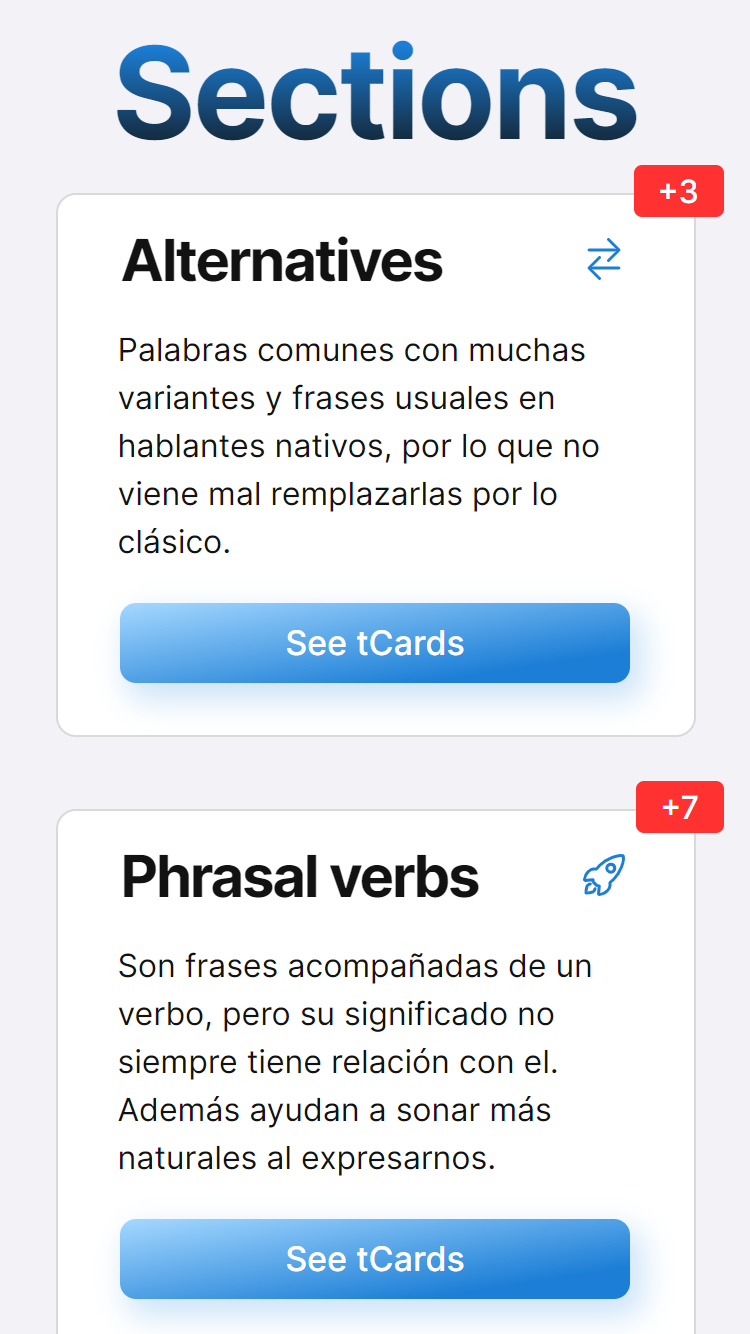
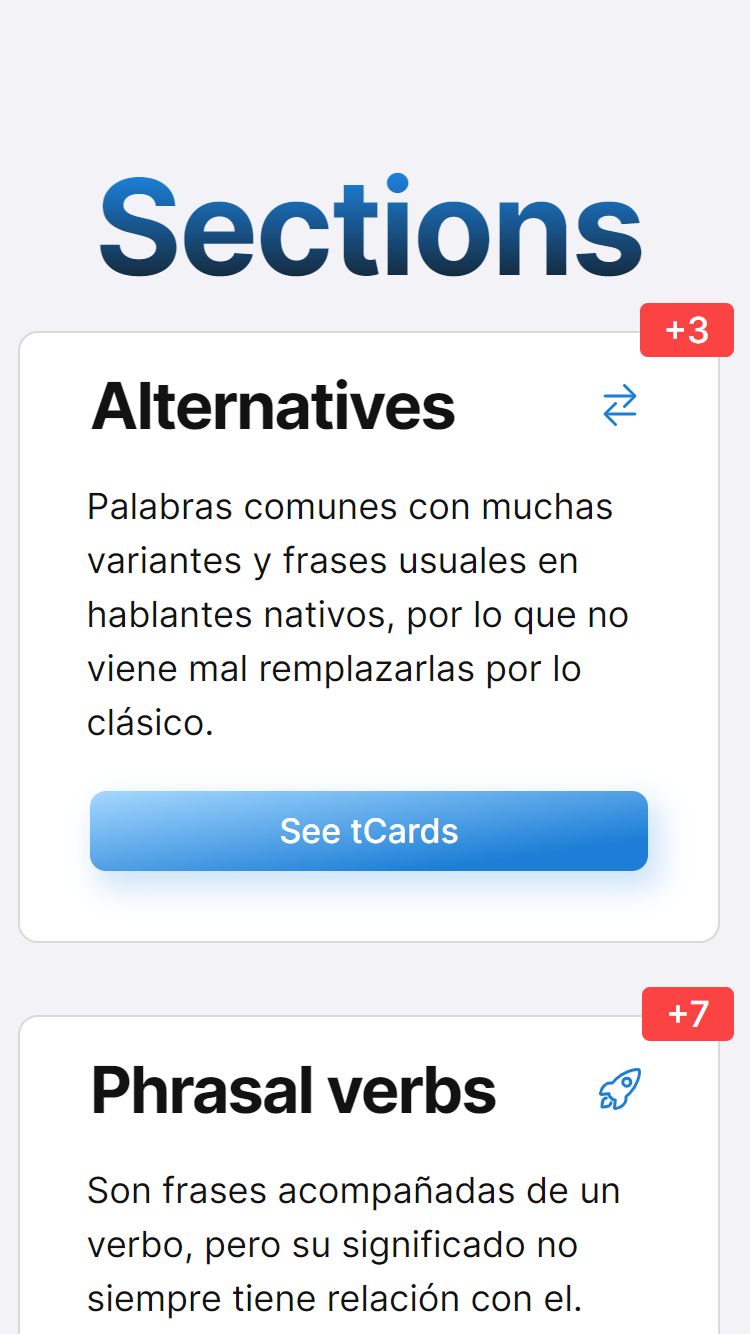
fixes: tolescro section was changed

diff --git a/index.html b/index.html
@@ -144,20 +144,20 @@
 
       <div class="wrapper-tolescro-header">
         <h6 class="tolescro-heading"><span class="textBlue">Tolescro</span></h6>
-        <p class="tolescro-p">Is a website to scroll, <span class="textBlue">repeat </span>and learn english with cards.
+        <p class="tolescro-p">Is a website to scroll, <span class="textBlue">repeat </span>and learn english with <span class="tolescro-screens-p">useful and complete sections</span>
         </p>
       </div>
 
       <div class="wrapper-tolescro-screens">
         <div class="tolescro-screens">
-          <p class="tolescro-screens-p">Useful sections</p>
+          
           <img class="tolescro-screens-img" src="src/assets/img/tolescro/tolescro-screen1.png"
             alt="Screen tolescro: sections" />
         </div>
       </div>
 
       <div class="wrapper-ankerTolescro">
-        <a class="anker-tolescro" href="https://valenciaarcega.github.io/tolescro/">Discover Tolescro</a>
+        <a class="anker-tolescro" href="https://valenciaarcega.github.io/tolescro/">Discover Tolescro →</a>
       </div>
     </div>
 

diff --git a/src/components/timers/sliderImages.js b/src/components/timers/sliderImages.js
@@ -5,12 +5,11 @@ const imgTolescro = document.querySelector('.tolescro-screens-img');
 const labelImages = document.querySelector('.tolescro-screens-p')
 
 setInterval(() => {
-  if (imgCounter > 4) imgCounter = 1;
+  if (imgCounter > 3) imgCounter = 1;
   imgTolescro.src = `src/assets/img/tolescro/tolescro-screen${imgCounter}.png`;
-  if (imgCounter === 1) labelImages.textContent = 'Useful sections';
-  if (imgCounter === 2) labelImages.textContent = 'The cards live into the dark';
-  if (imgCounter === 3) labelImages.textContent = 'Powerful search';
-  if (imgCounter === 4) labelImages.textContent = 'Tips, slangs and much more';
+  if (imgCounter === 1) labelImages.textContent = 'useful and complete sections';
+  if (imgCounter === 2) labelImages.textContent = 'a powerful search';
+  if (imgCounter === 3) labelImages.textContent = 'tips, slangs and much more';
 
   imgCounter++;
 }, 5500);

diff --git a/public/main.css b/public/main.css
@@ -353,7 +353,8 @@ a img {
   letter-spacing: -1px;
 }
 
-.tolescro-p {
+.tolescro-p,
+.tolescro-screens-p  {
   width: 85%;
   font-size: 20px;
   line-height: 1.6;
@@ -381,12 +382,10 @@ a img {
 
 .tolescro-screens-p {
   text-align: left;
-  font-weight: 500;
 }
 
 .tolescro-screens-img {
   height: 420px;
-  margin-top: 6px;
   border-radius: 8px;
   box-shadow: 0px 16px 12px rgba(0, 0, 0, 0.1);
 }
@@ -418,11 +417,7 @@ a img {
   text-align: center;
   color: var(--white);
   background-color: var(--mainColor);
-  box-shadow: 0px 4px 12px rgba(0, 0, 0, 0.1);
-}
-
-.anker-tolescro:hover {
-  background-color: #3c5cdb;
+  box-shadow: 0px 4px 12px 10px rgba(0, 0, 0, 0.15);
 }
 
 
